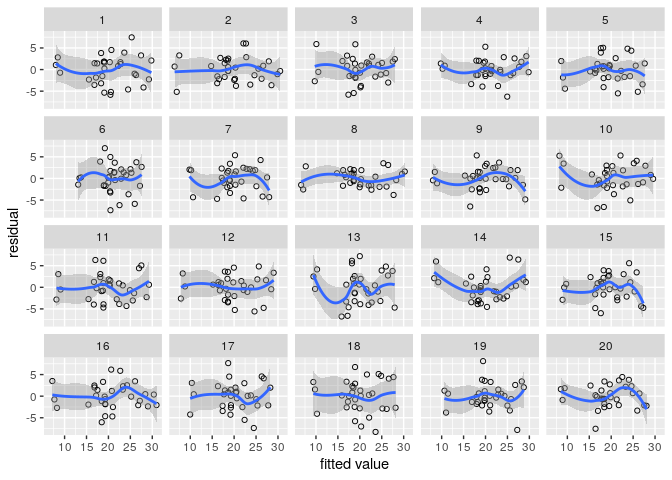
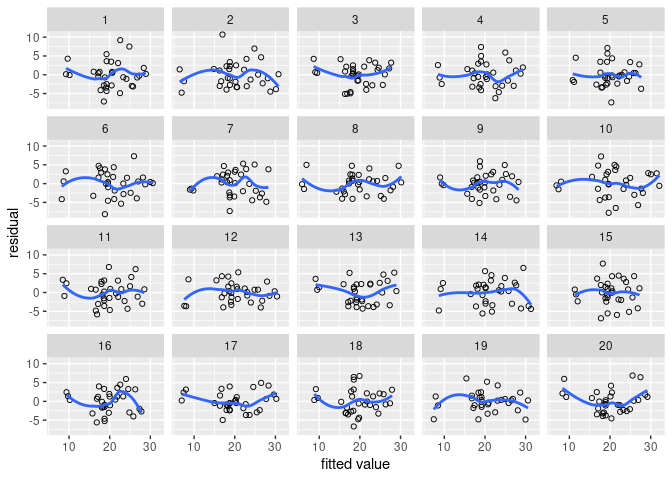
updated readme to version 2025-02

diff --git a/README.md b/README.md
@@ -1,12 +1,12 @@
 
 <!-- README.md is generated from README.Rmd. Please edit that file -->
-cannonball
-==========
 
-cannonball bundles a couple of functions that I use when teaching introductory courses in quantitative methodology and statistics.
+# cannonball
 
-Installation
-------------
+cannonball bundles a couple of functions that I use when teaching
+introductory courses in quantitative methodology and statistics.
+
+## Installation
 
 You can install cannonball from Github with:
 
@@ -15,8 +15,7 @@ library(devtools)
 install_github("janhove/cannonball")
 ```
 
-Functions
----------
+## Functions
 
 ``` r
 # Load the package
@@ -25,7 +24,9 @@ library(cannonball)
 
 ### `plot_r()`: Draw different scatterplots with the same correlation coefficient
 
-A single correlation coefficient can correspond to any number of scatterplots. `plot_r()` produces 16 such scatterplots for any given Pearson correlation coefficient to drive this point home.
+A single correlation coefficient can correspond to any number of
+scatterplots. `plot_r()` produces 16 such scatterplots for any given
+Pearson correlation coefficient to drive this point home.
 
 ``` r
 plot_r(r = 0.5, n = 35)
@@ -35,31 +36,54 @@ plot_r(r = 0.5, n = 35)
 
 For more info, see `?plot_r`.
 
-Accompanying blog post: [*What data patterns can lie behind a correlation coefficient?*](https://janhove.github.io/teaching/2016/11/21/what-correlations-look-like)
+Accompanying blog post: [*What data patterns can lie behind a
+correlation
+coefficient?*](https://janhove.github.io/posts/2016-11-21-what-correlations-look-like/)
 
 ### Walkthroughs
 
-To help students see the connection between an experiment's design and its analysis, I've written two functions.
+To help students see the connection between an experiment’s design and
+its analysis, I’ve written two functions.
 
-`walkthrough_p()` guides the user through a completely randomised experiment: Data points are generated and randomly assigned to either the control or intervention condition. Then, the intervention effect is added to the data points in the intervention condition. Finally, the data are analysed using a Student's t-test or, if `pedant = TRUE`, a permutation test.
+`walkthrough_p()` guides the user through a completely randomised
+experiment: Data points are generated and randomly assigned to either
+the control or intervention condition. Then, the intervention effect is
+added to the data points in the intervention condition. Finally, the
+data are analysed using a Student’s t-test or, if `pedant = TRUE`, a
+permutation test.
 
 ``` r
 # see ?walkthrough_p
 walkthrough_p(n = 18, diff = 0.3, sd = 1, pedant = TRUE)
 ```
 
-`walkthrough_blocking()` works similarly to `walkthrough_p()` but describes a randomised block design: Prior information about the data points is available in the form of a covariate (e.g., a pretest score). This information is used to group participants into 'blocks', and the randomisation is restricted in that one participant per block is assigned to the control and one to the intervention condition. Crucially, the analysis needs to take this restricted randomisation into account.
+`walkthrough_blocking()` works similarly to `walkthrough_p()` but
+describes a randomised block design: Prior information about the data
+points is available in the form of a covariate (e.g., a pretest score).
+This information is used to group participants into ‘blocks’, and the
+randomisation is restricted in that one participant per block is
+assigned to the control and one to the intervention condition.
+Crucially, the analysis needs to take this restricted randomisation into
+account.
 
 ``` r
 # ?walkthrough_blocking
 walkthrough_blocking(n = 12, diff = 0.4, sd = 1)
 ```
 
-An alternative, more powerful, but less easily explained analysis would use the blocking *covariate* as a control variable in a general linear model rather than the blocking *factor*.
+An alternative, more powerful, but less easily explained analysis would
+use the blocking *covariate* as a control variable in a general linear
+model rather than the blocking *factor*.
 
 ### Simulate data for cluster-randomised experiment
 
-The data from experiments in which entire clusters of participants (e.g., classes) are assigned to the experimental conditions can't be analysed in the same way as data from experiments in which the participants are assigned to the conditions individually. `clustered_data()` generates data for a cluster-randomised experiment and can be used to demonstrate the increased Type-I error rate if such data are analysed using t-tests on the individual outcomes.
+The data from experiments in which entire clusters of participants
+(e.g., classes) are assigned to the experimental conditions can’t be
+analysed in the same way as data from experiments in which the
+participants are assigned to the conditions individually.
+`clustered_data()` generates data for a cluster-randomised experiment
+and can be used to demonstrate the increased Type-I error rate if such
+data are analysed using t-tests on the individual outcomes.
 
 ``` r
 # Simulate clustered data with an ICC of 0.3
@@ -81,13 +105,27 @@ ggplot(data = d,
 
 A covariate can also be created. For more info, see `?clustered_data`.
 
-Accompanying article: Vanhove, Jan. 2015. [Analyzing randomized controlled interventions: Three notes for applied linguists](http://doi.org/10.14746/ssllt.2015.5.1.7). *Studies in Second Language Learning and Teaching* 5(1). 135–152. (See the [correction note](http://pressto.amu.edu.pl/index.php/ssllt/article/view/5827/5895) for this paper.)
+Accompanying article: Vanhove, Jan. 2015. [Analyzing randomized
+controlled interventions: Three notes for applied
+linguists](http://doi.org/10.14746/ssllt.2015.5.1.7). *Studies in Second
+Language Learning and Teaching* 5(1). 135–152. (See the [correction
+note](http://pressto.amu.edu.pl/index.php/ssllt/article/view/5827/5895)
+for this paper.)
 
-Accompanying blog post: [*Experiments with intact groups: spurious significance with improperly weighted t-tests*](https://janhove.github.io/design/2016/02/16/cluster-randomisation-correction).
+Accompanying blog post: [*Experiments with intact groups: spurious
+significance with improperly weighted
+t-tests*](https://janhove.github.io/posts/2016-02-16-cluster-randomisation-correction/).
 
 ### Check model assumptions graphically
 
-These functions may be helpful for helping you to judge whether your data conform to the assumptions of your statistical model. By embedding the model's diagnostic plot in a line-up of diagnostic plots of simulated data for which the model's assumptions are literally met, analysts can more easily determine whether any blips in these plots are indicative of assumption violations or whether they can plausibly be accounted for by sampling error/noise. See [Buja et al. (2009)](http://doi.org/10.1098/rsta.2009.0120).
+These functions may be helpful for helping you to judge whether your
+data conform to the assumptions of your statistical model. By embedding
+the model’s diagnostic plot in a line-up of diagnostic plots of
+simulated data for which the model’s assumptions are literally met,
+analysts can more easily determine whether any blips in these plots are
+indicative of assumption violations or whether they can plausibly be
+accounted for by sampling error/noise. See [Buja et
+al. (2009)](http://doi.org/10.1098/rsta.2009.0120).
 
 ``` r
 # Fit model
@@ -96,19 +134,23 @@ m <- lm(mpg ~ wt, data = mtcars)
 # Create parade/line-up
 my_parade <- parade(m)
 #> Loading required package: tidyverse
-#> ── Attaching packages ────────────────────────────────── tidyverse 1.2.1 ──
-#> ✔ tibble  2.1.3     ✔ purrr   0.3.2
-#> ✔ tidyr   1.0.0     ✔ dplyr   0.8.3
-#> ✔ readr   1.3.1     ✔ stringr 1.4.0
-#> ✔ tibble  2.1.3     ✔ forcats 0.4.0
-#> ── Conflicts ───────────────────────────────────── tidyverse_conflicts() ──
+#> ── Attaching core tidyverse packages ──────────────────────── tidyverse 2.0.0 ──
+#> ✔ dplyr     1.1.4     ✔ readr     2.1.5
+#> ✔ forcats   1.0.0     ✔ stringr   1.5.1
+#> ✔ lubridate 1.9.3     ✔ tibble    3.2.1
+#> ✔ purrr     1.0.2     ✔ tidyr     1.3.1
+#> ── Conflicts ────────────────────────────────────────── tidyverse_conflicts() ──
 #> ✖ dplyr::filter() masks stats::filter()
 #> ✖ dplyr::lag()    masks stats::lag()
+#> ℹ Use the conflicted package (<http://conflicted.r-lib.org/>) to force all conflicts to become errors
+```
+
+``` r
 
 # Check for residual nonlinearities:
 # Which plot looks most different from the rest?
 lin_plot(my_parade)
-#> `geom_smooth()` using method = 'loess' and formula 'y ~ x'
+#> `geom_smooth()` using method = 'loess' and formula = 'y ~ x'
 ```
 
 <img src="man/figures/README-unnamed-chunk-5-1.png" width="100%" />
@@ -117,14 +159,18 @@ lin_plot(my_parade)
 
 # Reveal position of actual diagnostic plot
 reveal(my_parade)
-#> The true data are in position 14.
+#> The true data are in position 20.
 ```
 
 Related functions are:
 
--   `var_plot()`: Check for non-constant variance in the residuals.
--   `norm_qq()`: Check for non-normality of the residuals (quantile--quantile plot).
--   `norm_hist()`: Check for non-normality of the residuals (histogram).
--   `parade_summary()`: Summarise residuals per cell (combination of unique predictor values).
+- `var_plot()`: Check for non-constant variance in the residuals.
+- `norm_qq()`: Check for non-normality of the residuals
+  (quantile–quantile plot).
+- `norm_hist()`: Check for non-normality of the residuals (histogram).
+- `parade_summary()`: Summarise residuals per cell (combination of
+  unique predictor values).
 
-Accompanying article: Vanhove, Jan. 2018. [Checking the assumptions of your statistical model without getting paranoid](https://psyarxiv.com/zvawb/). Preprint on PsyArxiv.
+Accompanying article: Vanhove, Jan. 2018. [Checking the assumptions of
+your statistical model without getting
+paranoid](https://psyarxiv.com/zvawb/). Preprint on PsyArxiv.
